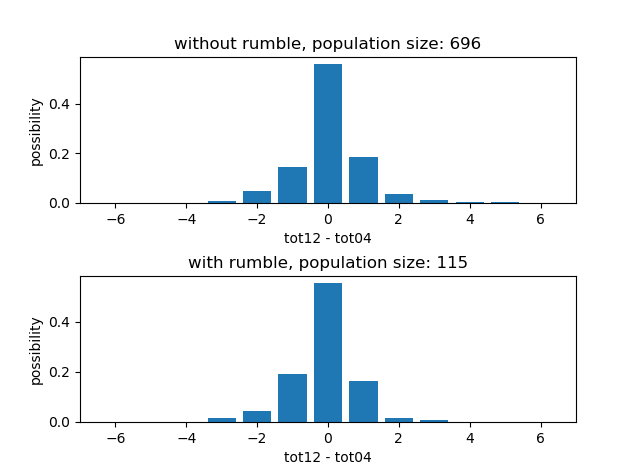
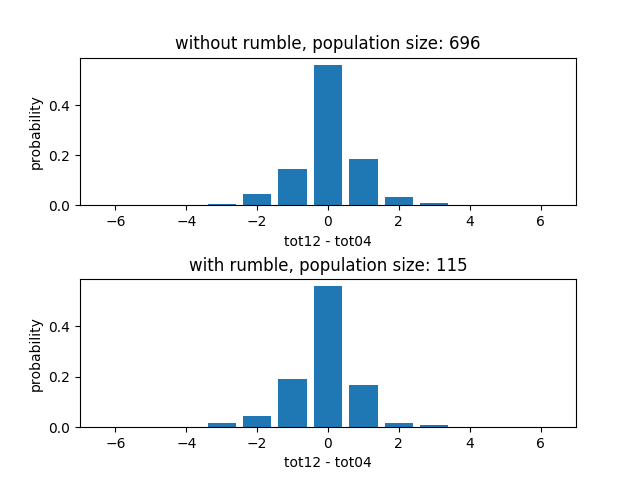
.

diff --git a/Statistical Methods/project2.tex b/Statistical Methods/project2.tex
@@ -22,17 +22,17 @@
 \end{titlepage}
 
 \section*{Summary}
-Rumble strips has been widely adopted as an economic measure to alert inattentive drivers of potential dangers. A rumble strip is a raised or grooved pattern on travel lanes and has different texture with the road on with it is installed. When vehicle tires pass over the strip, they produce a sudden rumbling sound and cause the automobile to vibrate so as to alert inattentive or drowsy drivers[]. It is expected that drivers will pay more attention when passing the road and thus reduce the possibility of potential car accidents. A car accident is such a complex random event that contributed by many factors, it is hard to tell how effective rumble strips are in reducing crashes. So, in this study, we explore the effectiveness of rumble strips by comparing the changes in yearly car crashes number between roads with and without rumble installed in an observed time span (2004 to 2012). We find that there isn't strong evidence that rumble stripes have a general effects in reducing average number of crash on all roads. But when we focus on roads with certain condition, such as road curvature, road width, speed limit, etc., we found that on roads with curvature degree greater than 5, rumble strips can prevent \% of car crashes on average. We also find that rumble strips is also likely to reduce ?\% of car crashes on roads of width greater than 24 feet while they have positive effects in narrower roads, which is unexpected as by intuition we think a crash is more likely to happen if the road is narrower. By further investing the annual traffic volume, we realize that wider roads usually hold more traffic volume and thus higher car accident possibility. We also suspect that rumble strips would help on crash-prone roads, i.e., roads with car accident records in 2004, but we didn't find any strong evidence to support that. 
+Rumble strips has been widely adopted as an economic measure to alert inattentive drivers of potential dangers. A rumble strip is a raised or grooved pattern on travel lanes and has different texture with the road on with it is installed. When vehicle tires pass over the strip, they produce a sudden rumbling sound and cause the automobile to vibrate so as to alert inattentive or drowsy drivers\cite{corkle2001synthesis}. It is expected that drivers will pay more attention when passing the road and thus reduce the possibility of potential car accidents. A car accident is such a complex random event that contributed by many factors, it is hard to tell how effective rumble strips are in reducing crashes. So, in this study, we explore the effectiveness of rumble strips by comparing the changes in yearly car crashes number between roads with and without rumble installed in an observed time span (2004 to 2012). We find that there isn't strong evidence that rumble stripes have a general effects in reducing average number of crash on all roads. But when we focus on roads with certain condition, such as road curvature, road width, speed limit, etc., we found that on roads with curvature degree greater than 5, rumble strips can reduce the number of car crashes by 0.272 on average. We also find that rumble strips is likely to reduce 0.168 of car crashes on roads of width greater than 24 feet while they do not show positive effects in narrower roads, which is unexpected as by intuition we think a crash is more likely to happen if the road is narrower. By further investing the annual traffic volume, we realize that wider roads usually carry more traffic volume and thus higher car accident possibility, and that makes the effects of rumble strips more prominent.
 
 \section*{Dataset and Assumption}
 
-This study works with the dataset "PennCrash.txt"[] that provides number of crashes occurred on about 2000 road segments (sites) in Pennsylvania in the year 2004, 2008 and 2012. Among these sites, rumble strips were installed in 331 of them between year 2008 and 2012. The dataset also gives some features of the roads including annual average daily traffic (AADT) volume, curvature, width, posted speed limit and so on. As we do not know if rumble stripes were installed in 2008 or not, we only use the data of the year 2004 and 2012, and we assume that by the beginning of 2012, all the rumble stripes in this dataset had been installed. Thus we have a clean data to study the crash number before and after rumble strips installation.
+This study works with the dataset "PennCrash.txt"\cite{data} that provides number of crashes occurred on about 2000 road segments (sites) in Pennsylvania in the year 2004, 2008 and 2012. Among these sites, rumble strips were installed in 331 of them between year 2008 and 2012. The dataset also gives some features of the roads including annual average daily traffic (AADT) volume, curvature, width, posted speed limit and so on. As we do not know if rumble stripes were installed in 2008 or not, we only use the data of the year 2004 and 2012, and we assume that by the beginning of 2012, all the rumble stripes in this dataset had been installed. Thus we have a clean data to study the crash number before and after rumble strips installation.
 
 \section*{Methodology}
 
-To study if rumble strips help in reducing the number of car crashes, a naive approach is to compare the car accident number before and after rumble strip installation. However, 8 years (2004 to 2012) is quite a long time span and many factors that affect car crash could have changed over time, such as better traffic control system, improved overall driving behavior, better car control system, higher/lower traffic volume, etc., and we cannot simply claim the changes in car crashes as being the effect of rumble stripes. So we take data of roads that do not have rumble strips treatment as a control group, and those that have rumble strips treatment as treat group. We will study the total crash number changes between year 2012 and year 2004 of the two groups, and test the differences between the two population. When investigating rumble strips' effects on roads of particular features, we will filter the data using the corresponding column before testing the differences. 
+To study if rumble strips help in reducing the number of car crashes, a naive approach is to compare the car accident number before and after rumble strip installation. However, 8 years (2004 to 2012) is quite a long time span and many factors that affect car crash could have changed over time, such as better traffic control system, improved overall driving behavior, better car control system, higher/lower traffic volume, etc., and we cannot simply ascribe the changes in car crashes to rumble stripes. So we take the sample of roads that do not have rumble strips treatment as a control group, and those that have rumble strips treatment as treat group. We will study the total crash number changes between year 2012 and year 2004 of the two groups, and test the differences between the two population. When investigating rumble strips' effects on roads with particular features, we will filter the data using the corresponding column before testing the differences. 
 
-And to compare two population, we perform single-tailed two sample t-test to test their means are equal and get the p value. Generally, we have the following null hypothesis and alternative hypothesis:
+And to compare two population, we perform single-tailed two sample t-test to test if their means are equal and get the p value\cite{t-test}. Generally, we have the following null hypothesis and alternative hypothesis:
 
 \begin{align*}
     H_0: &Mean(tot12-tot04)|(treat, condition(f_1, f_2, ..., f_n)) >= \\
@@ -41,56 +41,78 @@ And to compare two population, we perform single-tailed two sample t-test to tes
          &Mean(tot12-tot04)|(not treat, condition(f_1, f_2, ..., f_n))\\
 \end{align*}
 
-Where $tot04$ and $tot12$ are the total number of crashes in year 2004 and 2012 respectively, and $Mean(tot12-tot04)|(treat, condition(f_1, f_2, ..., f_n))$ denotes the mean value of $tot12-tot04$ of roads that have rumble stripe treatment with conditions on road features $f_1, f_2, ..., f_n$. $H_0$ means rumble strips treatment has no effect or has reverse effect in reducing car crash number on roads with features safisfying $condition(f_1, f_2, ..., f_n)$. We set $\alpha$ value to 0.05 in this study.
+Where $tot04$ and $tot12$ are the total number of crashes in year 2004 and 2012 respectively, and $Mean(tot12-tot04)|(treat, condition(f_1, f_2, ..., f_n))$ denotes the mean value of $tot12-tot04$ of roads that have rumble stripe treatment with conditions on road features $f_1, f_2, ..., f_n$. $H_0$ means rumble strips treatment has no effect or has reverse effect in reducing car crash number on roads with features satisfying $condition(f_1, f_2, ..., f_n)$. We set $\alpha$ value to 0.05 in this study.
 
-\section*{Rumble Strips Effectiveness Tests}
+\section*{Exploratory Data Analysis}
 
 We first study rumble strips' effects on all the roads in the dataset regardless of any road features. Figure ~\ref{fig:general-effect} shows the distribution of the two population. The mean value for the population with rumble strips treatment is -0.066 and 0.028 for that without treatment. While the mean value of the treatment group is slightly smaller than the control group, the p value is 0.057 so we accept the null hypothesis. But still, we can see that the distribution at 1 is marginally smaller than the value at -1 in the group with treatment, and the other way around in the other group. This is a good sign that we can find a more significant difference if we refine the two groups with certain condition on some road features.
 
 \begin{figure}[h!]
     \centering
     \includegraphics[width=0.5\textwidth]{with-and-without-rumble-diff.png}
-    \caption{distribution of tot12-tot04 on roads with and without rumble treatment}
+    \caption{distribution of $tot12-tot04$ on roads with and without rumble treatment}
     \label{fig:general-effect}
 \end{figure}
 
-Then we consider the roads of large curvature. We first check roads with curve degree greater than 3, the mean value of $tot12-tot04$ for the treat group is ? against ? for the control group, and the p value is ?, which rejects the null hyposthesis. When we further increase the curve degree threshold to 5, the difference is more significant, with the mean value difference increase to ? and p value decrease to ?. Figure ~\ref{fig:curve-grt3} and figure ~\ref{fig:curve-grt5} shows the distribution of $tot12-tot04$ of the two cases respectively. 
+We then consider the roads of large curvature. We first check roads with curve degree greater than 3, the mean value of $tot12-tot04$ for the treat group is -0.077 against 0.108 for the control group, and the p value is 0.036, which rejects the null hypothesis. When we further increase the curve degree threshold to 5, the difference is more significant, with the mean value difference increase to 0.272 and p value decrease to 0.028. Figure ~\ref{fig:curve-grt3} and figure ~\ref{fig:curve-grt5} shows the distribution of $tot12-tot04$ of the two cases respectively. 
 
 \begin{figure}[H]
     \centering
     \begin{subfigure}{.5\textwidth}
         \centering
         \includegraphics[width=1\textwidth]{with-and-without-rumble-curvature-grt3-diff.png}
-        \caption{distribution of tot12-tot04 on roads of curve degree $>$ 3     with and without rumble treatment}
+        \caption{distribution of $tot12-tot04$ on roads of curve degree $>$ 3     with and without rumble treatment}
         \label{fig:curve-grt3}
     \end{subfigure}%
     \begin{subfigure}{.5\textwidth}
         \centering
         \includegraphics[width=1\textwidth]{with-and-without-rumble-curvature-grt5-diff.png}
-        \caption{distribution of tot12-tot04 on roads of curve degree $>$ 5     with and without rumble treatment}
+        \caption{distribution of $tot12-tot04$ on roads of curve degree $>$ 5     with and without rumble treatment}
         \label{fig:curve-grt5}
     \end{subfigure}
-    %\caption{A figure with two subfigures}
-    %\label{fig:test}
 \end{figure}
 
-To test our model, we do a 1-year span forecast and compare it against the actual data. Figure ~\ref{fig:forecast1} presents the forecast data and the error. We notice that the change trend of the forecast generally matches the actual data, but the data change scale diminishes as the time goes which makes the future predication approaching to a constant. Figure ~\ref{fig:forecast10} shows a 10-year forecast and the predicated data indeed level off after 3 years. Overall, the results show that our model is capable of doing a good short term forecast but would need further improvements to increase the reliable forecast span.
+The second road feature in this study is the posted speed limit. The speed limit in this dataset has two categories, i.e. smaller than 45 mph and greater than 45 mph. We expect that car accidents tend to happen more frequently on roads with higher speed limit and rumble stirps could help to reduce the chance. Indeed, the mean value of $tot12-tot04$ for the treat group is again smaller than the control group (-0.104 versus 0.047), the p value, however, is 0.059, which is a little bit higher than $alpha$. Figure ~\ref{fig:speed} presents the distribution of $tot12-tot04$ for the two groups.
+
+\begin{figure}[h!]
+    \centering
+    \includegraphics[width=0.5\textwidth]{with-and-without-rumble-speed-grt45-diff.png}
+    \caption{distribution of $tot12-tot04$ on roads of speed limit greater than 45 mph with and without rumble treatment}
+    \label{fig:speed}
+\end{figure}
+
+The last road feature we pick out is road width. Road width is categorized into 3 values in this dataset. More specifically, they are "$<=$ 20", :1, "$>$ 20 and $<$ 24" and "$>=$ 24", with feet being the unit.  While we suspected that a narrower road tends to be more dangerous, the test does not produce a positive result for the rumbles strips' effectiveness on roads in the "$<=$ 20" category, as the mean value of the treat group is 0.1 while the control group has a small mean value of 0.087. Interestingly, when we further check the widest road category, we see a positive result. The mean value in this case is -1.891 for the treat group and 0.006 for the other, with the p value being 0.029. As show in figure ~\ref{fig:width-cat0} and figure ~\ref{fig:width-cat2}, it's noticeable that the distribution of $tot12-tot04$ is much higher at value -1 with rumble strips installation. 
 
 \begin{figure}[H]
     \centering
-    \includegraphics[width=0.5\textwidth]{forecast-1-year.jpg}
-    \caption{1-year span forecast data and the forecast error}
-    \label{fig:forecast1}
+    \begin{subfigure}{.5\textwidth}
+        \centering
+        \includegraphics[width=1\textwidth]{with-and-without-rumble-width-cat0-diff.png}
+        \caption{distribution of $tot12-tot04$ on roads of curve degree $>$ 3     with and without rumble treatment}
+        \label{fig:width-cat0}
+    \end{subfigure}%
+    \begin{subfigure}{.5\textwidth}
+        \centering
+        \includegraphics[width=1\textwidth]{with-and-without-rumble-width-cat2-diff.png}
+        \caption{distribution of $tot12-tot04$ on roads of curve degree $>$ 5     with and without rumble treatment}
+        \label{fig:width-cat2}
+    \end{subfigure}
 \end{figure}
 
-\begin{figure}[H]
+To further study the reason that rumble strips show a better result in wider roads, we plot a scatter plot of road width against AADT as shown in figure ~\ref{fig:width-adt}. We see that a more spacious road is more likely to carry more traffics, and thus higher probability of crashes, which makes the effects of rumble strips, if any, more prominent.
+
+\begin{figure}[h!]
     \centering
-    \includegraphics[width=0.5\textwidth]{forecast-10-year.jpg}
-    \caption{1-year span forecast data and the forecast error}
-    \label{fig:forecast10}
+    \includegraphics[width=0.5\textwidth]{width-adt-scatter.png}
+    \caption{scatter plot for traffic volume versus width}
+    \label{fig:width-adt}
 \end{figure}
 
-\bibliography{project1} 
+\section*{Conclusion}
+
+In this study, we explore the effectiveness of rumble strips by comparing the changes in yearly car crashes number between roads with and without rumble installed under different road conditions, and there are positive results in most of the examined cases. When we compare the $tot12-tot04$ distribution between the treat group and the control group, we find that without rumble strips installation, the value at 1 is tends to be higher then the value at -1, while it's the other way around on roads with rumble stripes installation, which means rumble strips indeed have some positive effects in reducing crashes. And according the cases we have studied, the effects varies across roads with different conditions.
+
+\bibliography{project2} 
 \bibliographystyle{ieeetr}
 \end{document}
 

diff --git a/Statistical Methods/PennCrashTwoSampleTTest.py b/Statistical Methods/PennCrashTwoSampleTTest.py
@@ -24,6 +24,12 @@ drivewaysVSCrash = {}
 speedVSCrash = {}
 
 curvatureDistribution = {}
+"""
+plt.scatter([width_category[x] for x in crash["width"]], crash["adt04"], alpha=0.1)
+plt.xlabel('width(feet)')
+plt.ylabel('AADT')
+plt.xticks([0, 1, 2], ['<= 20', '> 20 and < 24', '>= 24'])
+plt.show()
 for x, y, treat in zip(crash["tot04"], crash["curvature"], crash["Treat"]):
     #if x == 0 or not treat:continue
     y = floor(y)
@@ -62,18 +68,18 @@ crashDistributionY = [crashes[x] for x in crashDistributionX]
 crashDistributionY = [y/sum(crashDistributionY) for y in crashDistributionY]
 plt.bar(crashDistributionX, crashDistributionY)
 plt.xlabel('# crashes')
-plt.ylabel('possibility')
+plt.ylabel('probability')
 plt.show()
-
+"""
 # two sample t-test on crash differences
 #treatDiff = [x for x, y in zip(crash["totDiff"], crash["Treat"]) if y]
 #untreatDiff = [x for x, y in zip(crash["totDiff"], crash["Treat"]) if not y]
 #plt.hist(crash["curvature"], 50)
 #plt.show()
-treatDiff = [x for x, y, curvature in zip(crash["totDiff"], crash["Treat"], crash["curvature"]) if y and curvature > 10]
-untreatDiff = [x for x, y, curvature in zip(crash["totDiff"], crash["Treat"], crash["curvature"]) if not y and curvature > 10]
-#treatDiff = [x for x, y, width in zip(crash["totDiff"], crash["Treat"], crash["width"]) if y and width_category[width] == 2]
-#untreatDiff = [x for x, y, width in zip(crash["totDiff"], crash["Treat"], crash["width"]) if not y and width_category[width] == 2]
+#treatDiff = [x for x, y, curvature in zip(crash["totDiff"], crash["Treat"], crash["curvature"]) if y and curvature > 3]
+#untreatDiff = [x for x, y, curvature in zip(crash["totDiff"], crash["Treat"], crash["curvature"]) if not y and curvature > 3]
+#treatDiff = [x for x, y, width in zip(crash["totDiff"], crash["Treat"], crash["width"]) if y and width_category[width] == 0]
+#untreatDiff = [x for x, y, width in zip(crash["totDiff"], crash["Treat"], crash["width"]) if not y and width_category[width] == 0]
 #treatDiff = [x for x, y, speed in zip(crash["totDiff"], crash["Treat"], crash["speed"]) if y and speed_category[speed] == 1]
 #untreatDiff = [x for x, y, speed in zip(crash["totDiff"], crash["Treat"], crash["speed"]) if not y and speed_category[speed] == 1]
 treatDiff = [x for x, y, tot04, tot08 in zip(crash["totDiff"], crash["Treat"], crash["tot04"], crash["tot08"]) if y and tot04 >= 1]
@@ -104,14 +110,14 @@ plt.subplots_adjust(hspace=0.5)
 ax1=plt.subplot(2, 1, 1)
 ax1.set_title('without rumble, population size: {}'.format(len(untreatDiff)))
 ax1.set_xlabel('tot12 - tot04')
-ax1.set_ylabel('possibility')
+ax1.set_ylabel('probability')
 ax1.set_xlim([-7, 7])
 plt.bar(untreatDiffX, untreatDiffY)
 
 ax2=plt.subplot(2, 1, 2)
 ax2.set_title('with rumble, population size: {}'.format(len(treatDiff)))
 ax2.set_xlabel('tot12 - tot04')
-ax2.set_ylabel('possibility')
+ax2.set_ylabel('probability')
 ax2.set_xlim([-7, 7])
 plt.bar(treatDiffX, treatDiffY)
 plt.show()
